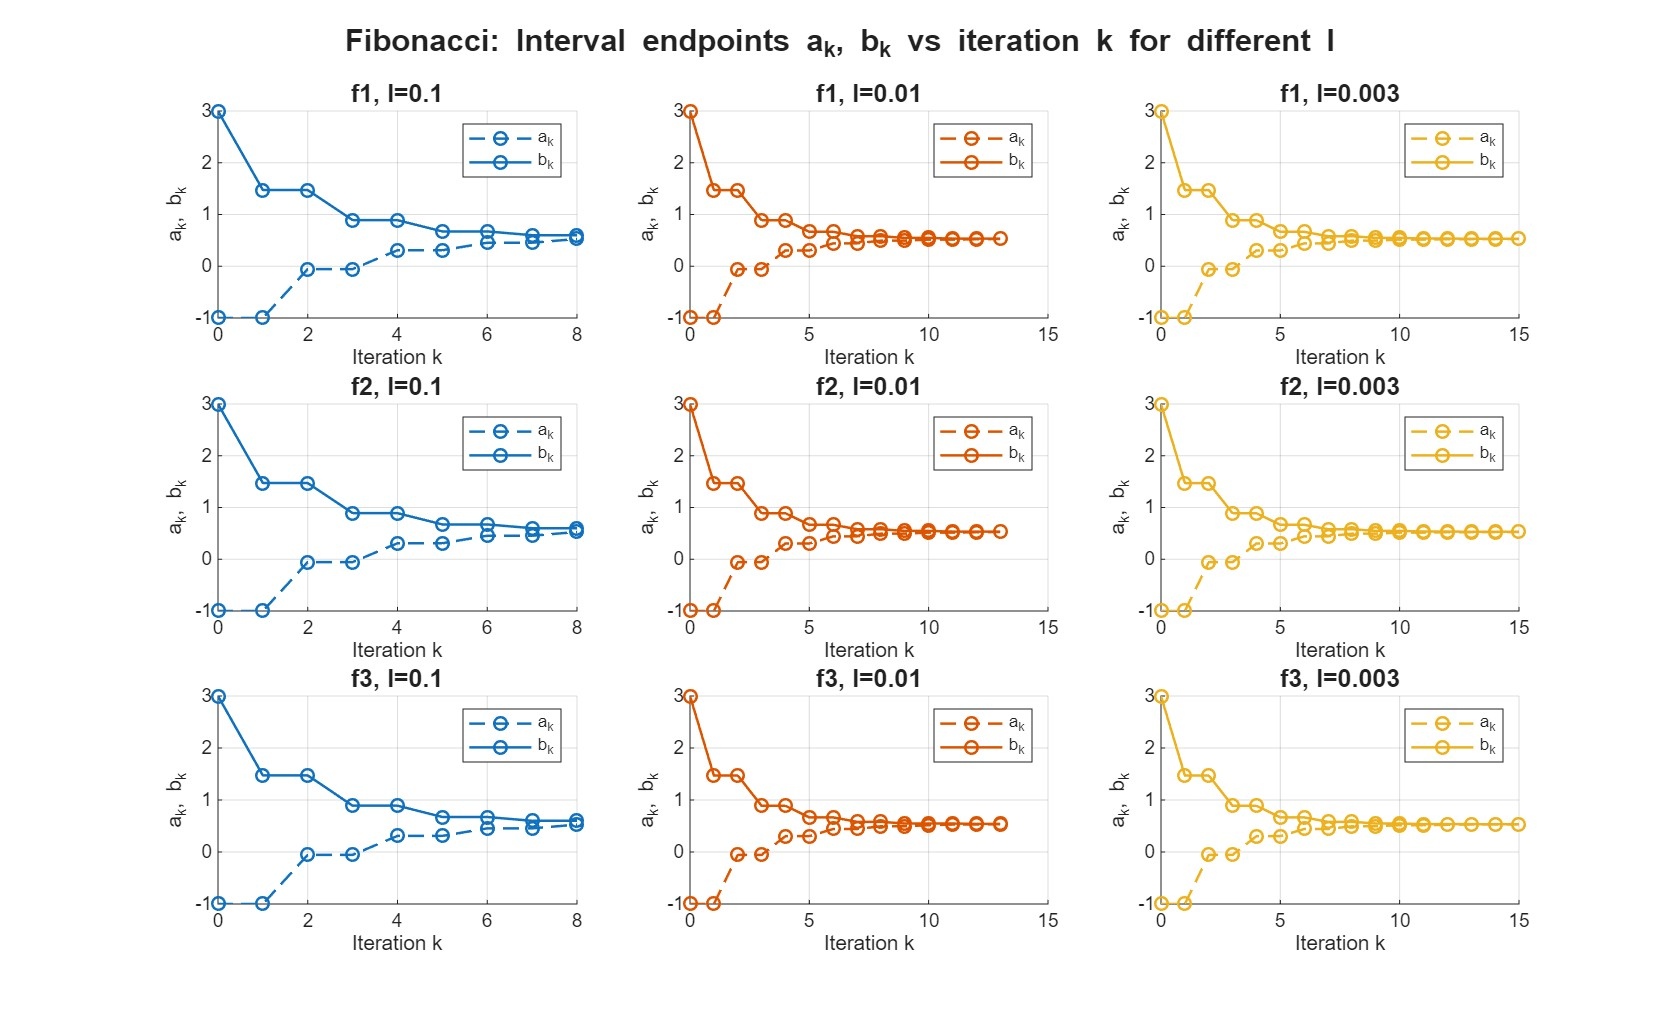
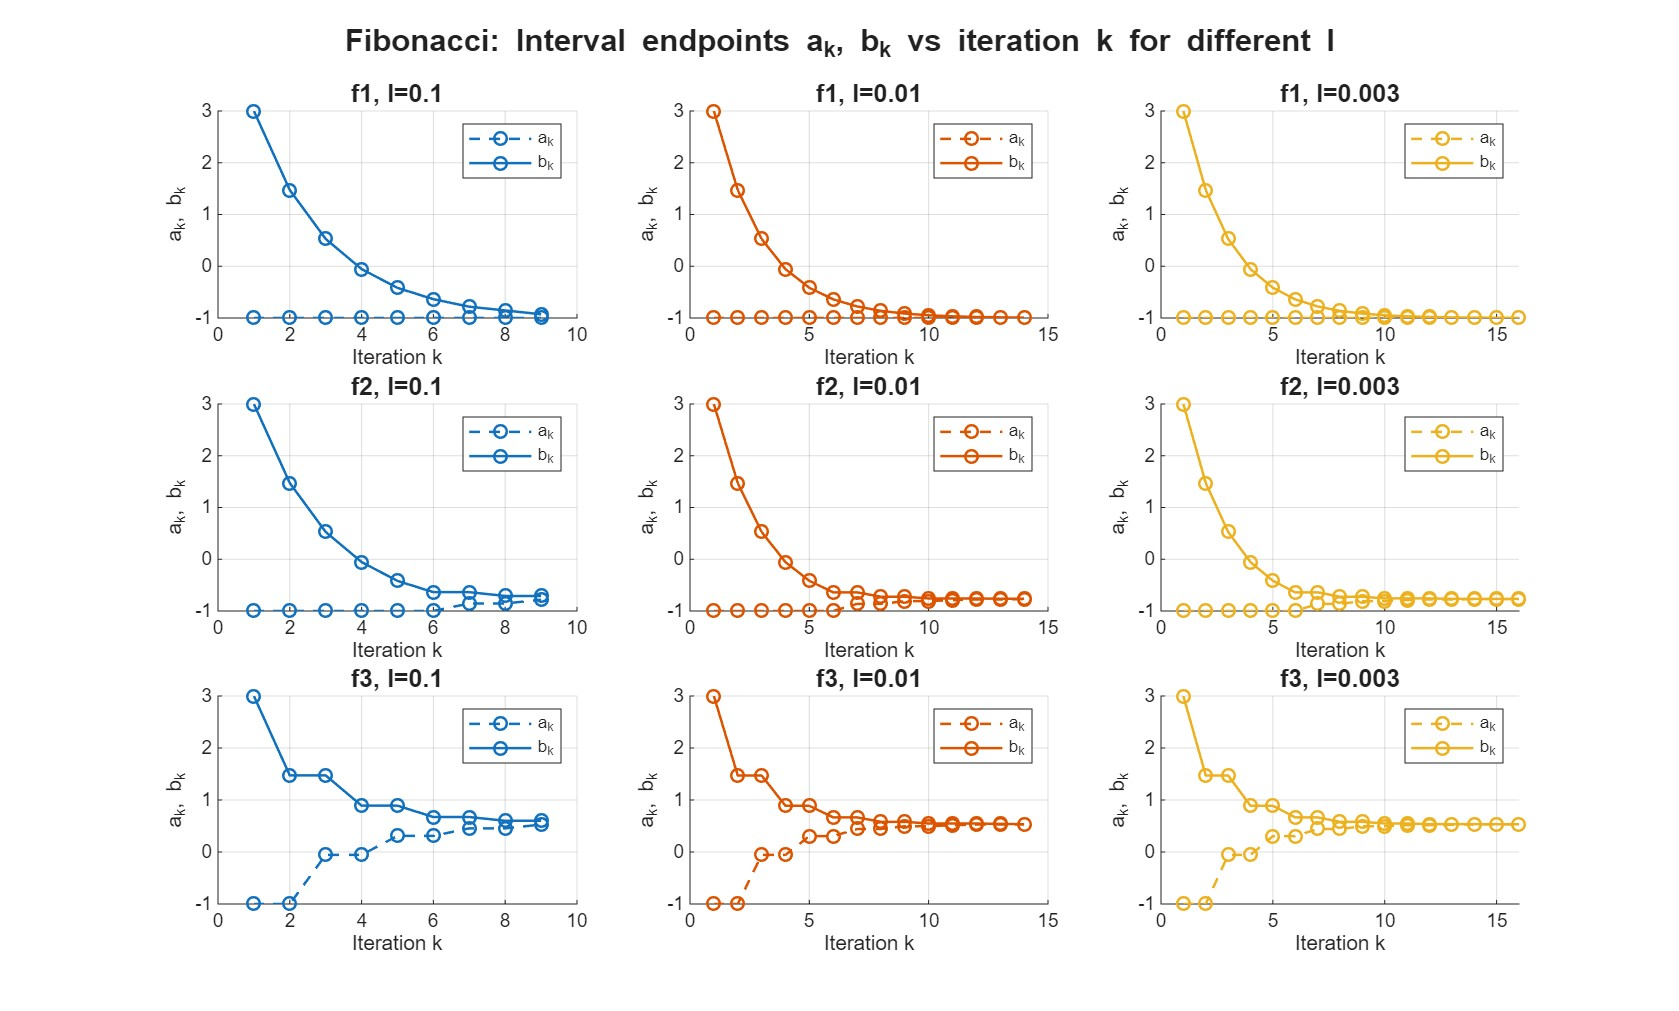
revise algorithms

diff --git a/assignment1/report/report1.tex b/assignment1/report/report1.tex
@@ -21,6 +21,8 @@
     urlcolor=blue
 }
 \usepackage[super,sort&compress]{cite}
+\usepackage{algorithm}
+\usepackage{algpseudocode}
 
 \newcolumntype{C}{>{\centering\arraybackslash}c}
 
@@ -33,7 +35,7 @@
 \maketitle
 
 \begin{center}
-\textbf{Code Repository:} \\
+\textbf{Αποθετήριο Κώδικα:} \\
 \href{https://github.com/ioannisam/optimization-techniques}
      {github.com/ioannisam/optimization-techniques}
 \end{center}
@@ -52,11 +54,155 @@
 
 \section{Μέθοδος Διχοτόμου}
 
+    \subsection{Αλγόριθμος}
+    
+    \begin{algorithm}
+        \caption{Μέθοδος Διχοτόμου}
+        \begin{algorithmic}[1]
+        \Require συνάρτηση $f$, διάστημα $[a_1,b_1]$, σταθερά $\epsilon>0$, τελική ακρίβεια $l>0$
+        \Ensure προσέγγιση ελαχίστου $x^*$
+        \State ορίστε $a \gets a_1$, $b \gets b_1$, $k \gets 1$
+        \While{$b - a > l$}
+            \State $m \gets (a+b)/2$
+            \State $x_1 \gets m - \epsilon$
+            \State $x_2 \gets m + \epsilon$
+            \State $f_1 \gets f(x_1)$
+            \State $f_2 \gets f(x_2)$
+            \If{$f_1 < f_2$}
+                \State $b \gets x_2$ \Comment{Το ελάχιστο βρίσκεται στο [a, x2]}
+            \Else
+                \State $a \gets x_1$ \Comment{Το ελάχιστο βρίσκεται στο [x1, b]}
+            \EndIf
+            \State $k \gets k+1$
+        \EndWhile
+        
+        \State \Return $[a_K,b_K] \gets [a,b]$
+        \end{algorithmic}
+    \end{algorithm}
+    
+    \subsection{Γραφικές Παραστάσεις}
+    \subsection{Συμπεράσματα}
 \section{Μέθοδος Χρυσού Τομέα}
 
+    \subsection{Αλγόριθμος}
+    
+    \begin{algorithm}
+        \caption{Μέθοδος Χρυσού Τομέα}
+        \begin{algorithmic}[1]
+        \Require συνάρτηση $f$, διάστημα $[a_1,b_1]$, τελική ακρίβεια $l>0$
+        \Ensure προσέγγιση ελαχίστου $x^*$
+        \State ορίστε $a \gets a_1$, $b \gets b_1$, $k \gets 1$
+        \State $\gamma \gets (\sqrt{5}-1)/2$ \Comment{Χρυσός λόγος (0.618)}
+        \State $x_1 \gets b - (1-\gamma)*(b-a)$
+        \State $x_2 \gets a + \gamma*(b-a)$
+        \State $f_1 \gets f(x_1)$
+        \State $f_2 \gets f(x_2)$
+        \While{$b - a > l$}
+            \If{$f_1 > f_2$}
+                \State $a \gets x_1$
+                \State $x_1 \gets x_2$
+                \State $f_1 \gets f_2$
+                \State $x_2 \gets a + \gamma*(b-a)$
+                \State $f_2 \gets f(x_2)$
+            \Else
+                \State $b \gets x_2$
+                \State $x_2 \gets x_1$
+                \State $f_2 \gets f_1$
+                \State $x_1 \gets b - (1-\gamma)*(b-a)$
+                \State $f_1 \gets f(x_1)$ 
+            \EndIf
+            \State $k \gets k + 1$
+        \EndWhile
+        
+        \State \Return $[a_K,b_K] \gets [a,b]$
+        \end{algorithmic}
+    \end{algorithm}
+    
+    \subsection{Γραφικές Παραστάσεις}
+    \subsection{Συμπεράσματα}
 \section{Μέθοδος Fibonacci}
 
+    \subsection{Αλγόριθμος}
+    
+    \begin{algorithm}
+        \caption{Μέθοδος Fibonacci}
+        \begin{algorithmic}[1]
+        \Require συνάρτηση $f$, διάστημα $[a_1,b_1]$, σταθερά $\epsilon>0$, τελική ακρίβεια $l>0$
+        \Ensure προσέγγιση ελαχίστου $x^*$
+        \State Ορίστε $a \gets a_1$, $b \gets b_1$, $k \gets 1$
+        \State Δημιουργήστε τη σειρά Fibonacci $F = [1, 1]$
+        \While{$F_{\text{end}} < (b-a)/l$}
+            \State Προσθέστε $F_{\text{end}} + F_{\text{end-1}}$ στο τέλος της σειράς
+        \EndWhile
+        \State $n \gets \text{μήκος}(F)$
+        \State $x_1 \gets a + (F_{n-2}/F_n)*(b-a)$
+        \State $x_2 \gets a + (F_{n-1}/F_n)*(b-a)$
+        \State $f_1 \gets f(x_1)$
+        \State $f_2 \gets f(x_2)$
+        
+        \For{$k = 1$ to $n-3$}
+            \If{$f_1 > f_2$}
+                \State $a \gets x_1$
+                \State $x_1 \gets x_2$
+                \State $f_1 \gets f_2$
+                \State $x_2 \gets a + (F_{n-k-1}/F_{n-k})*(b-a)$
+                \State $f_2 \gets f(x_2)$
+            \Else
+                \State $b \gets x_2$
+                \State $x_2 \gets x_1$
+                \State $f_2 \gets f_1$
+                \State $x_1 \gets a + (F_{n-k-2}/F_{n-k})*(b-a)$
+                \State $f_1 \gets f(x_1)$
+            \EndIf
+        \EndFor
+
+        \State $x_2 \gets x_1 + \epsilon$ 
+        \If{$f_1 > f_2$}
+            \State $a \gets x_1$
+        \Else
+            \State $b \gets x_2$
+        \EndIf
+        
+        \State \Return $[a_K,b_K] \gets [a,b]$
+        \end{algorithmic}
+    \end{algorithm}
+    
+    \subsection{Γραφικές Παραστάσεις}
+    \subsection{Συμπεράσματα}
 \section{Μέθοδος Διχοτόμου (με χρήση παραγώγου)}
+
+    \subsection{Αλγόριθμος}
+
+    \begin{algorithm}
+    \caption{Μέθοδος Διχοτόμου (με χρήση παραγώγου)}
+    \begin{algorithmic}[1]
+        \Require παράγωγος συνάρτησης $f'$, διάστημα $[a_1,b_1]$, τελική ακρίβεια $l>0$
+        \Ensure τελικό διάστημα $[a_K,b_K]$ που περιέχει το ελάχιστο
+    
+        \State Ορίστε $a \gets a_1$, $b \gets b_1$
+        \State $n \gets \left\lceil \log_2\left(\frac{b_1 - a_1}{l}\right) \right\rceil$
+        
+        \For{$k = 1$ \textbf{to} $n$}
+            \State $x \gets (a + b)/2$
+            \State $df_m \gets f'(x)$
+            
+            \If{$df_m > 0$}
+                \State $b \gets x$ \Comment{Το ελάχιστο βρίσκεται στο αριστερό μέρος}
+            \ElsIf{$df_m < 0$}
+                \State $a \gets x$ \Comment{Το ελάχιστο βρίσκεται στο δεξί μέρος}
+            \Else
+                \State $a \gets x$, $b \gets x$ \Comment{Βρέθηκε ακριβές ελάχιστο}
+                \State \textbf{break}
+            \EndIf
+        \EndFor
+        
+        \State \Return $[a_K,b_K] \gets [a,b]$
+        \end{algorithmic}
+    \end{algorithm}
+    
+    \subsection{Γραφικές Παραστάσεις}
+    \subsection{Συμπεράσματα}
+\section{Σύγκριση Μεθόδων}
 
 \appendix
 

diff --git a/assignment1/tasks/task3.m b/assignment1/tasks/task3.m
@@ -6,6 +6,7 @@ run(fullfile(script_folder, '..', 'objective_functions.m'));
 
 %% 1) Vary l - fevals/l
 l_values = 0.01:0.005:0.1;
+e = 0.001;
 
 figure;
 sgtitle('Fibonacci: Function evaluations vs l', 'FontWeight','bold');
@@ -13,7 +14,7 @@ for i = 1:3
     fevals_l = zeros(size(l_values));
     for j = 1:length(l_values)
         l = l_values(j);
-        [~,~,~,fevals,~] = fibonacci(funcs{i}, a0, b0, l);
+        [~,~,~,fevals,~] = fibonacci(funcs{i}, a0, b0, l, e);
         fevals_l(j) = fevals;
     end
     subplot(3,1,i);
@@ -32,11 +33,11 @@ sgtitle('Fibonacci: Interval endpoints a_k, b_k vs iteration k for different l',
 for i = 1:3
     for j = 1:length(l_values)
         l = l_values(j);
-        [~, ~, k, ~, history] = fibonacci(funcs{i}, a0, b0, l);
+        [~, ~, ~, ~, history] = fibonacci(funcs{i}, a0, b0, l, e);
 
         subplot(3,3,(i-1)*3 + j); hold on;
-        plot(0:k, history.a, '--', 'Color', colors(j,:), 'Marker', 'o', 'LineWidth',1.2, 'DisplayName', 'a_k');
-        plot(0:k, history.b, '-',  'Color', colors(j,:), 'Marker', 'o', 'LineWidth',1.2, 'DisplayName', 'b_k');
+        plot(1:length(history.a), history.a, '--', 'Color', colors(j,:), 'Marker', 'o', 'LineWidth',1.2, 'DisplayName', 'a_k');
+        plot(1:length(history.b), history.b, '-',  'Color', colors(j,:), 'Marker', 'o', 'LineWidth',1.2, 'DisplayName', 'b_k');
         xlabel('Iteration k'); ylabel('a_k, b_k');
         title([fnames{i}, ', l=', num2str(l)], 'FontWeight','bold', 'FontSize', 12);
         grid on;

diff --git a/assignment1/src/fibonacci.m b/assignment1/src/fibonacci.m
@@ -1,4 +1,4 @@
-function [aK,bK,k,fevals,history] = fibonacci(f,a,b,l)
+function [aK,bK,k,fevals,history] = fibonacci(f,a,b,l,e)
 
     if ~(isa(f,'function_handle'))
         error('Input f must be a function handle.');
@@ -25,24 +25,19 @@ function [aK,bK,k,fevals,history] = fibonacci(f,a,b,l)
     history.a = a;
     history.b = b;
 
-    for k = 1:(n-2) 
-        if f1 < f2
-            b = x2;
-            x2 = x1;
-            f2 = f1;
-            
-            if n-k-2 >= 1
-                x1 = a + (F(n-k-2)/F(n-k))*(b-a);
-            else
-                x1 = a + 0.5*(b-a); % avoid F(0)
-            end
-        else
+    for k = 1:(n-3) 
+        if f1 > f2
             a = x1;
             x1 = x2;
             f1 = f2;
-
             x2 = a + (F(n-k-1)/F(n-k))*(b-a);
-            f2 = f(x2);
+            f2 = f(x2); 
+        else
+            b = x2;
+            x2 = x1;
+            f2 = f1;  
+            x1 = a + (F(n-k-2)/F(n-k))*(b-a);
+            f1 = f(x1);        
         end
 
         fevals = fevals + 1;
@@ -50,6 +45,16 @@ function [aK,bK,k,fevals,history] = fibonacci(f,a,b,l)
         history.b(end+1) = b;
     end
 
-    aK = a;
-    bK = b;
+    x2 = x1 + e;
+    f2 = f(x2);
+    if f1 > f2
+        aK = x1;
+        bK = b;
+    else
+        aK = a;
+        bK = x1;
+    end
+    
+    history.a(end+1) = aK;
+    history.b(end+1) = bK;
 end

diff --git a/assignment1/src/dichotomous_derivative.m b/assignment1/src/dichotomous_derivative.m
@@ -10,34 +10,33 @@ function [aK,bK,k,fevals,history] = dichotomous_derivative(df,a,b,l)
         error('Input l must be a positive scalar.');
     end
 
-    k = 0;
+    n = ceil(log2((b-a) / l));
     fevals = 0;
     history.a = a;
     history.b = b;
 
-    while (b-a) > l
-        m = (a+b) / 2;
-        df_m = df(m);
+    for k = 1:n
+        x = (a+b) / 2;
+        df_m = df(x);
         fevals = fevals + 1;
 
         if df_m > 0
-            b = m; % minimum the left
+            b = x; % minimum the left
         elseif df_m < 0
-            a = m; % minimum the right
+            a = x; % minimum the right
         else
             % exact minimum
-            a = m;
-            b = m;
+            a = x;
+            b = x;
+            history.a(end+1) = a;
+            history.b(end+1) = b;
+            aK = a;
+            bK = b;
+            return;
         end
 
-        k = k + 1;
         history.a(end+1) = a;
         history.b(end+1) = b;
-
-        if k > 1e6
-            warning('Maximum number of iterations reached.');
-            break;
-        end
     end
 
     aK = a;

diff --git a/assignment1/tasks/task2.m b/assignment1/tasks/task2.m
@@ -32,11 +32,11 @@ sgtitle('Golden Section: Interval endpoints a_k, b_k vs iteration k for differen
 for i = 1:3
     for j = 1:length(l_values)
         l = l_values(j);
-        [~, ~, k, ~, history] = golden_section(funcs{i}, a0, b0, l);
+        [~, ~, ~, ~, history] = golden_section(funcs{i}, a0, b0, l);
 
         subplot(3,3,(i-1)*3 + j); hold on;
-        plot(0:k, history.a, '--', 'Color', colors(j,:), 'Marker', 'o', 'LineWidth',1.2, 'DisplayName', 'a_k');
-        plot(0:k, history.b, '-',  'Color', colors(j,:), 'Marker', 'o', 'LineWidth',1.2, 'DisplayName', 'b_k');
+        plot(1:length(history.a), history.a, '--', 'Color', colors(j,:), 'Marker', 'o', 'LineWidth',1.2, 'DisplayName', 'a_k');
+        plot(1:length(history.b), history.b, '-',  'Color', colors(j,:), 'Marker', 'o', 'LineWidth',1.2, 'DisplayName', 'b_k');
         xlabel('Iteration k'); ylabel('a_k, b_k');
         title([fnames{i}, ', l=', num2str(l)], 'FontWeight','bold', 'FontSize', 12);
         grid on;

diff --git a/assignment1/tasks/task1.m b/assignment1/tasks/task1.m
@@ -54,11 +54,11 @@ colors = lines(length(l_values));
 for i = 1:3
     for j = 1:length(l_values)
         l = l_values(j);
-        [~, ~, k, ~, history] = dichotomous(funcs{i}, a0, b0, l, e);
+        [~, ~, ~, ~, history] = dichotomous(funcs{i}, a0, b0, l, e);
         
         subplot(3,3,(i-1)*3 + j); hold on;
-        plot(0:k, history.a, '--', 'Color', colors(j,:), 'Marker', 'x', 'LineWidth', 1.2, 'DisplayName', 'a_k');
-        plot(0:k, history.b, '-',  'Color', colors(j,:), 'Marker', 'o', 'LineWidth', 1.2, 'DisplayName', 'b_k');
+        plot(1:length(history.a), history.a, '--', 'Color', colors(j,:), 'Marker', 'x', 'LineWidth', 1.2, 'DisplayName', 'a_k');
+        plot(1:length(history.b), history.b, '-',  'Color', colors(j,:), 'Marker', 'o', 'LineWidth', 1.2, 'DisplayName', 'b_k');
         xlabel('Iteration k'); ylabel('a_k, b_k');
         title([fnames{i}, ', l=', num2str(l)], 'FontWeight', 'bold', 'FontSize', 12);
         grid on;

diff --git a/assignment1/src/golden_section.m b/assignment1/src/golden_section.m
@@ -11,29 +11,29 @@ function [aK,bK,k,fevals,history] = golden_section(f,a,b,l)
     end
 
     gr = (sqrt(5)-1) / 2;
-    x1 = b - gr*(b-a);
+    x1 = b - (1-gr)*(b-a);
     x2 = a + gr*(b-a);
     f1 = f(x1);
     f2 = f(x2);
 
-    k = 0;
+    k = 1;
     fevals = 2;
     history.a = a;
     history.b = b;
 
-    while (b - a) > l
-        if f1 < f2
-            b = x2;
-            x2 = x1;
-            f2 = f1;
-            x1 = b - gr*(b-a);
-            f1 = f(x1);
-        else
+    while (b-a) > l
+        if f1 > f2
             a = x1;
             x1 = x2;
             f1 = f2;
             x2 = a + gr*(b-a);
             f2 = f(x2);
+        else
+            b = x2;
+            x2 = x1;
+            f2 = f1;
+            x1 = b - (1-gr)*(b-a);
+            f1 = f(x1);
         end
 
         fevals = fevals + 1;  % one function eval per iteration

diff --git a/assignment1/src/dichotomous.m b/assignment1/src/dichotomous.m
@@ -10,7 +10,7 @@ function [aK,bK,k,fevals,history] = dichotomous(f,a,b,l,e)
         error('Inputs l and e must be positive scalars.');
     end
 
-    k = 0;
+    k = 1;
     fevals = 0;
     history.a = a;
     history.b = b;
